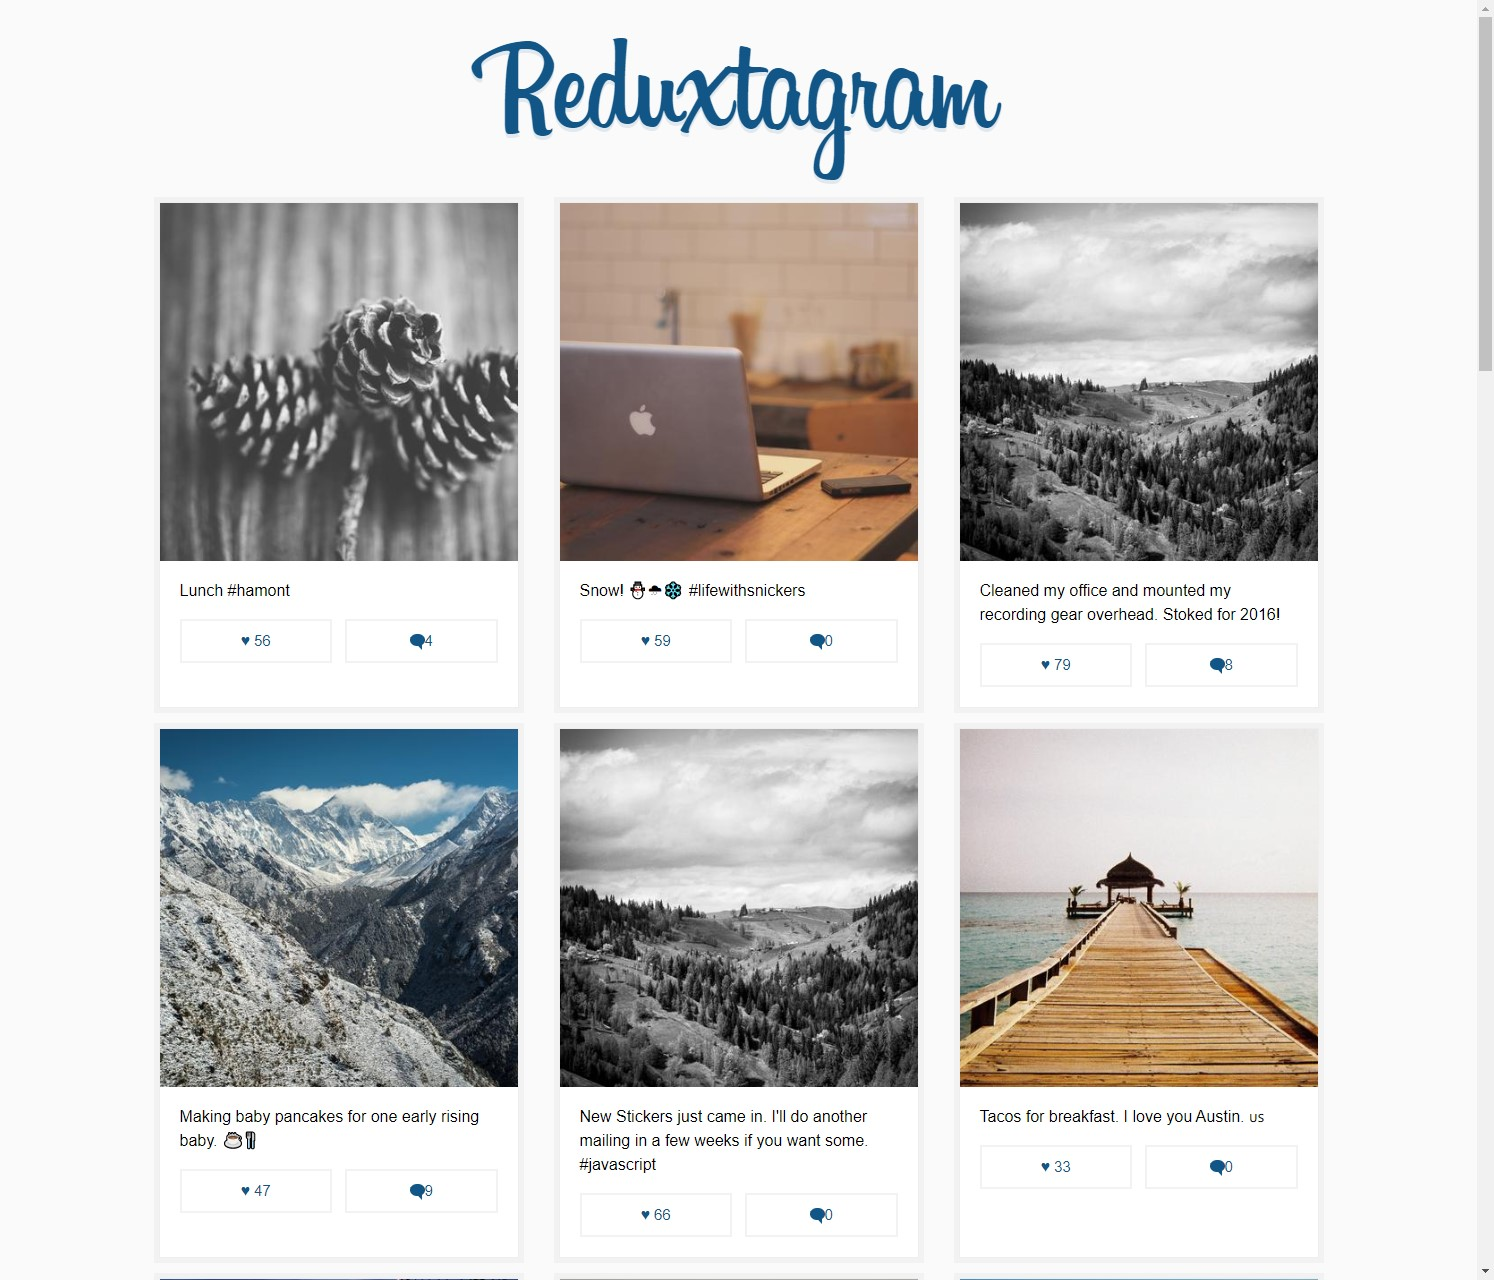
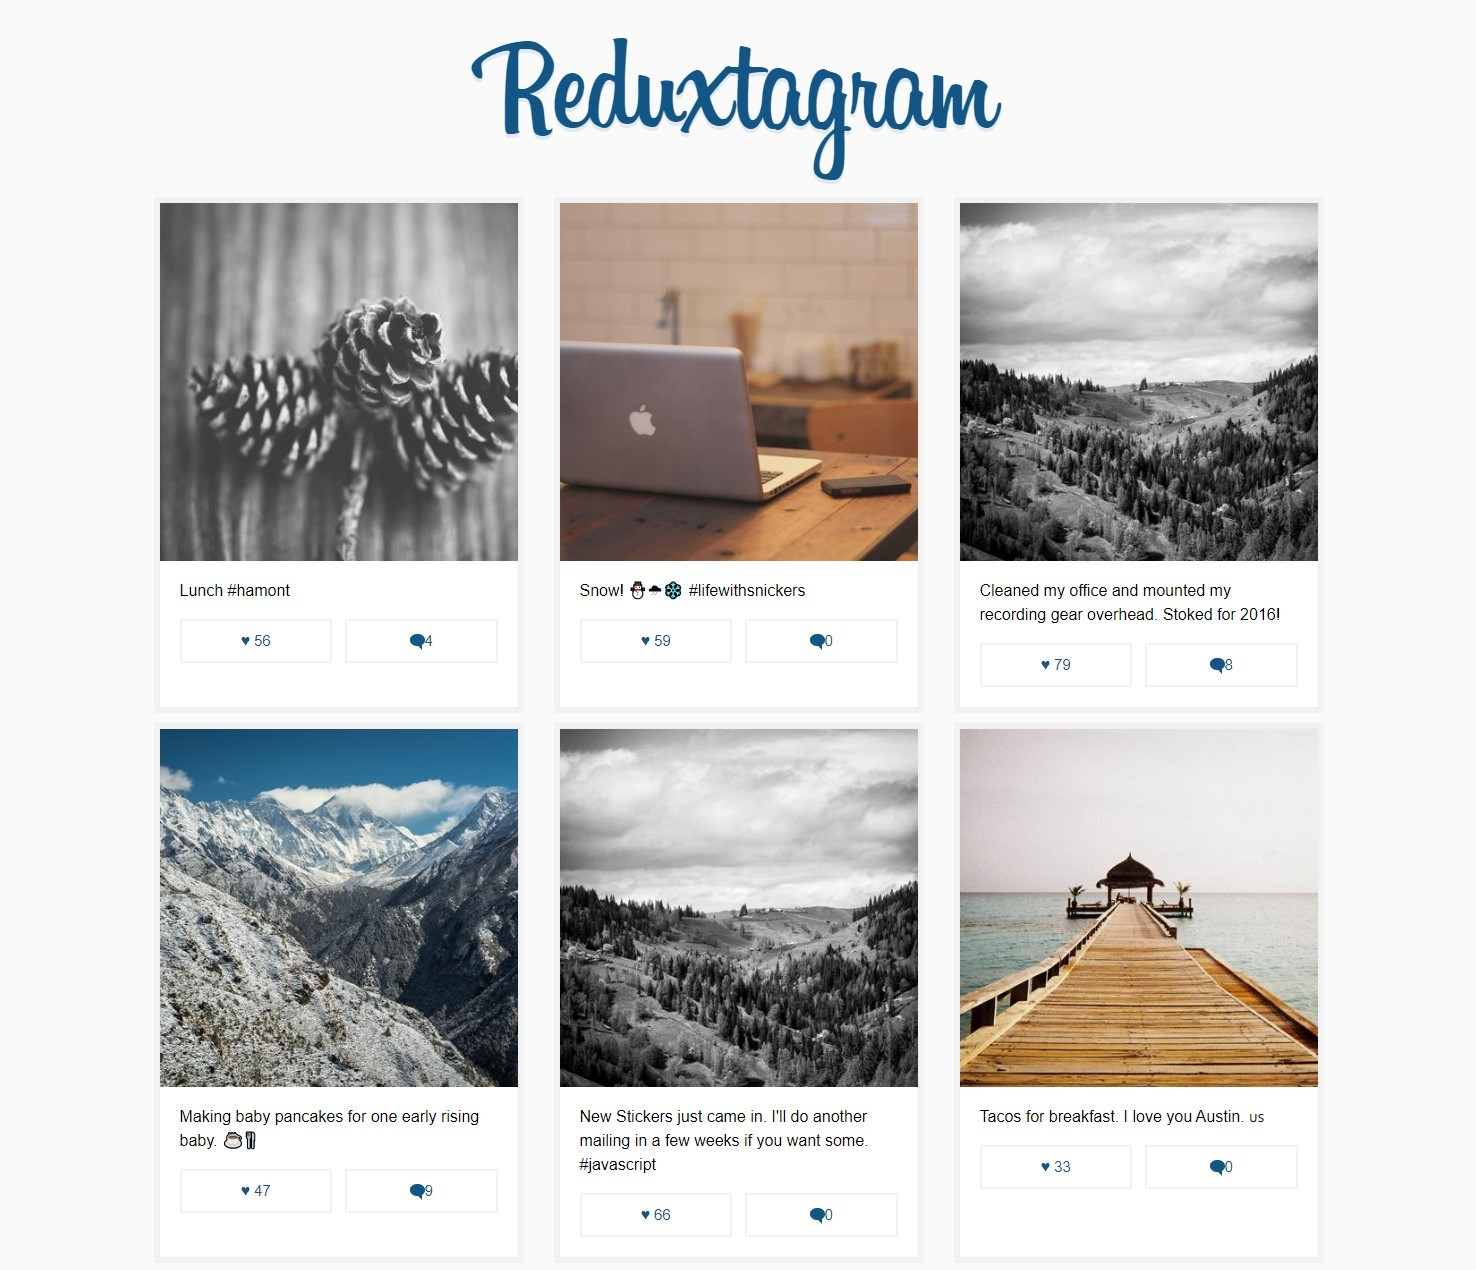
asset upload

diff --git a/src/pages/contact.js b/src/pages/contact.js
@@ -13,7 +13,7 @@ const ContactPage = ({ data: { site } }) => (
       <div
         className="post-thumbnail"
         style={{
-          backgroundImage: `url('/assets/alexander-andrews-HgUDpaGPTEA-unsplash.jpg')`,
+          backgroundImage: `url('/assets/alexander-andrews-HgUDpaGPTEA-unsplash.webp')`,
           marginBottom: 0,
         }}
       >

diff --git a/_data/blog/store-finder.md b/_data/blog/store-finder.md
@@ -3,7 +3,7 @@ template: StoreFinder
 path: /store-finder
 date: 2020-04-18T12:12:25.364Z
 title: 'Store Finder'
-thumbnail: /assets/store-finder.jpg
+thumbnail: /assets/store-finder.webp
 metaDescription: store finder
 ---
 # Store Finder

diff --git a/_data/blog/reduxtagram.md b/_data/blog/reduxtagram.md
@@ -3,7 +3,7 @@ template: Reduxtagram
 path: /reduxtagram
 date: 2020-03-15T12:12:25.364Z
 title: 'Reduxtagram'
-thumbnail: /assets/reduxtagram.jpg
+thumbnail: /assets/reduxtagram.webp
 metaDescription: reduxtagram
 ---
 # Reduxtagram

diff --git a/_data/blog/wanderlost.md b/_data/blog/wanderlost.md
@@ -3,7 +3,7 @@ template: Wanderlost
 path: /wanderlost
 date: 2020-04-22T12:12:25.364Z
 title: 'Wanderlost'
-thumbnail: /assets/wanderlost.jpg
+thumbnail: /assets/wanderlost.webp
 metaDescription: wanderlost
 ---
 # Wanderlost
